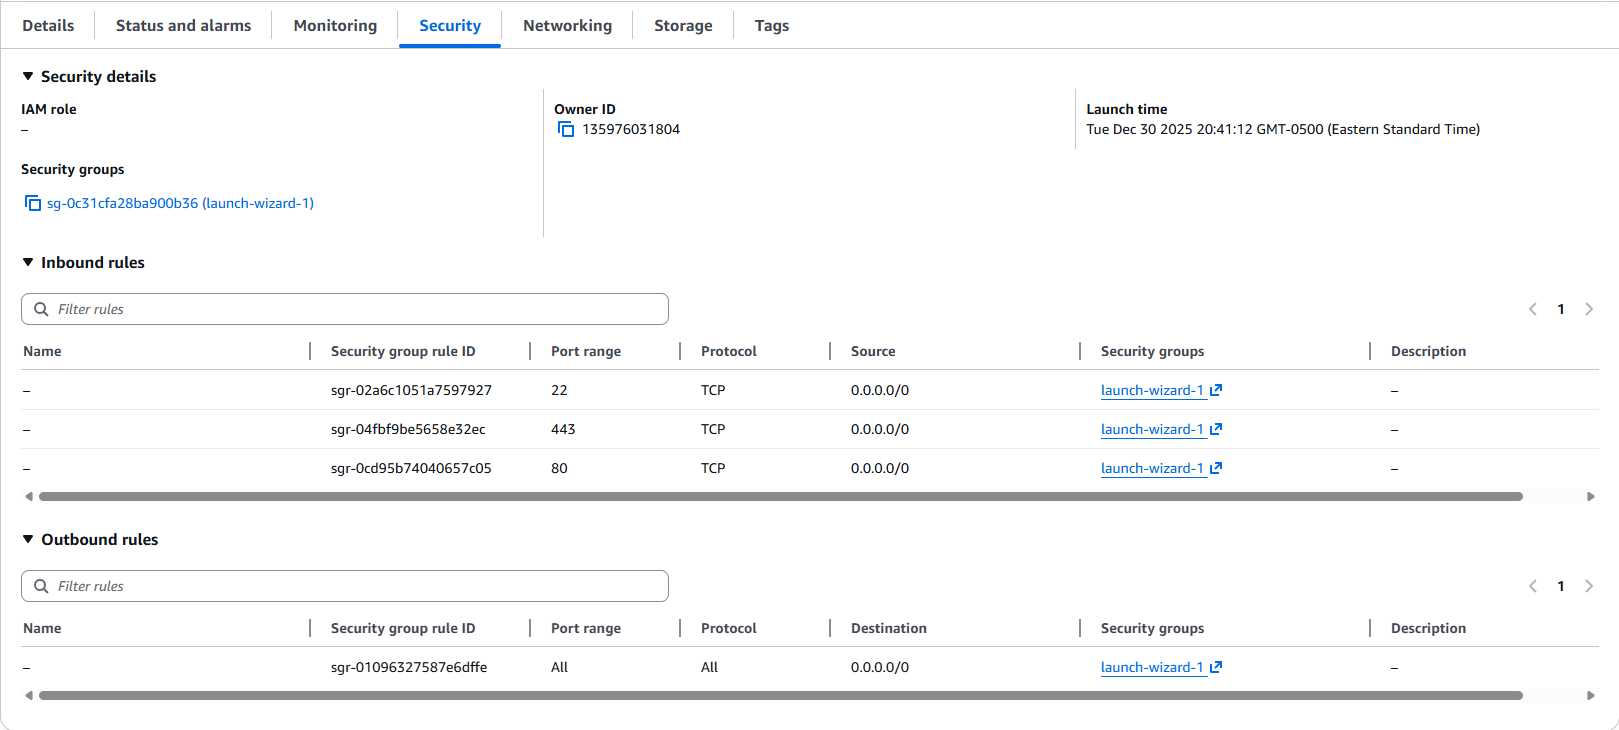
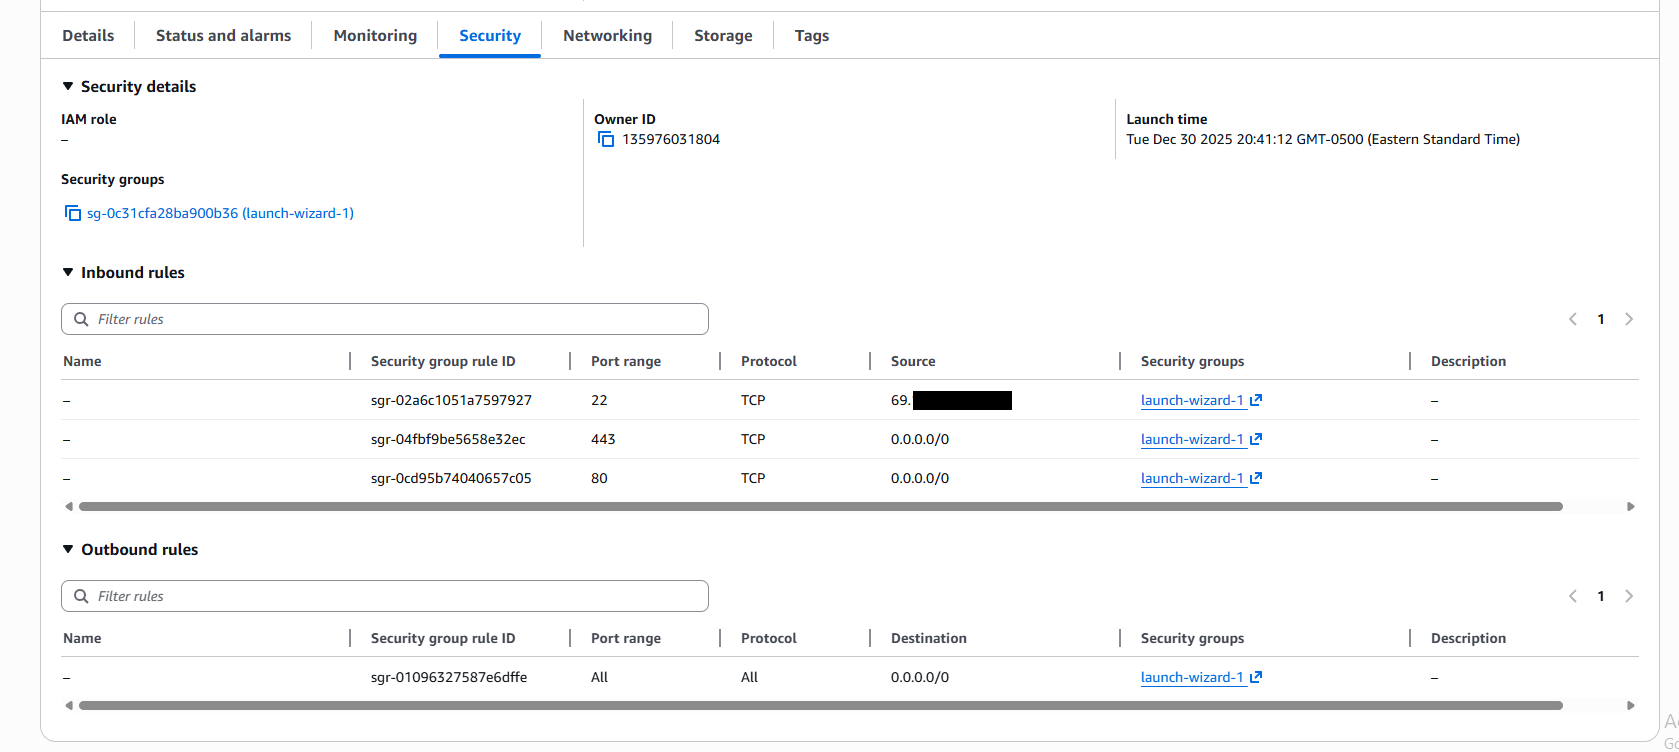
almost finshed 1st project uploading to aws now for hosting

diff --git a/project-serverless-aws.html b/project-serverless-aws.html
@@ -72,10 +72,10 @@
             <li>
               <strong>Account &amp; IAM</strong>
               <p>
-                I avoided day-to-day work on the AWS root user and instead relied on IAM users scoped for everyday administration versus automation/project-focused CLI credentials. Credentials stayed manageable while IAM handled authorization boundaries instead of scattering inline secrets everywhere.
+                I avoided day to day work on the AWS root user and instead relied on IAM users scoped for everyday administration tasks, this allowed me to have the good IAM security practices in place and not have to worry about the root user.
               </p>
               <p>
-                Both identities live inside an IAM user group with administrator-aligned policies attached at group scope, instead of duplicating policies on each user. Below are snapshots from the IAM Users console and the shared admin group.
+                Both identities live inside an IAM user group with administrator aligned policies attached at the base level. Below are snapshots from the IAM Users console and the shared admin group.
               </p>
               <div class="project-detail-step-media">
                 <figure class="project-detail-figure project-detail-figure--step">
@@ -105,7 +105,7 @@
             <li>
               <strong>VPC &amp; Internet Gateway</strong>
               <p>
-                I created a VPC for the environment and attached an Internet Gateway to it so the VPC could exchange traffic with the internet, which is the prerequisite for a public-facing subnet and inbound HTTPS/HTTP.
+                I created a VPC for the environment and attached an Internet Gateway to it so the VPC could exchange traffic with the internet, which is the prerequisite for a public facing subnet and inbound HTTPS/HTTP.
               </p>
               <div class="project-detail-step-media">
                 <figure class="project-detail-figure project-detail-figure--step">
@@ -146,16 +146,16 @@
             <li>
               <strong>Security groups</strong>
               <p>
-                From the EC2 console I opened my instance and used the <strong>Security</strong> tab to review the attached security group and rules in context (inbound TCP for SSH&nbsp;(22), HTTP&nbsp;(80), and HTTPS&nbsp;(443), plus the default outbound rule allowing responses and package installs during setup).
+                From the EC2 console I opened my instance and used the <strong>Security</strong> tab to review the attached security group and rules I set up previously (inbound TCP for SSH&nbsp;(22), HTTP&nbsp;(80), and HTTPS&nbsp;(443), plus the default outbound rule allowing responses and package installs during setup).
               </p>
               <p>
-                This reflects a straightforward lab-style perimeter; in production I’d tighten SSH (avoid <code class="project-detail-code">0.0.0.0/0</code> on port&nbsp;22; prefer my IP or AWS Systems Manager Session Manager) while keeping web ports scoped to what the app actually needs.
+                SSH is limited to a single source IP which is my public IP (<code class="project-detail-code">/32</code>); HTTP and HTTPS stay open to <code class="project-detail-code">0.0.0.0/0</code> for the web app. Other secure ways of accessing the instance are through AWS Systems Manager Session Manager or EC2 Instance Connect.
               </p>
               <div class="project-detail-step-media">
                 <figure class="project-detail-figure project-detail-figure--step">
                   <img
                     src="assets/ec2-security-groups.png"
-                    alt="EC2 instance Security tab showing attached security group with inbound rules for SSH, HTTPS, and HTTP and outbound allow-all rule."
+                    alt="EC2 instance Security tab with inbound rules: SSH port 22 from a single public IP, HTTPS 443 and HTTP 80 from 0.0.0.0/0, plus outbound allow-all."
                     loading="lazy"
                   >
                   <figcaption>EC2 → Security: inbound/outbound rules for the instance’s security group.</figcaption>
@@ -171,7 +171,7 @@
             <li>
               <strong>EBS storage</strong>
               <p>
-                The instance ran with EBS-backed storage. AWS provisioning attaches a root volume by default; the diagram treats persistent disk explicitly because OS, application, and database files all need durable block storage even when traffic spikes aren’t huge yet.
+                The instance ran with EBS backed storage. AWS provisioning attaches a root volume by default; the diagram treats persistent disk explicitly because OS, application, and database files all need durable block storage even when traffic spikes aren’t huge yet. For a larger application I would use a RDS instance for the database and a larger instance type for the web server.
               </p>
               <div class="project-detail-step-media project-detail-step-media--wide">
                 <figure class="project-detail-figure project-detail-figure--step">
@@ -192,15 +192,12 @@
             <li>
               <strong>Stack install &amp; deploy</strong>
               <p>
-                Over SSH I installed and configured Apache and PHP, deployed the application files to the server, and set up MySQL with the schema and data needed for equipment reservations, bringing the hosted stack in line with the architecture diagram’s EC2 → web + database slice.
+                Over SSH I installed and configured Apache and PHP, deployed the application files to the server, and set up MySQL with the schema and data needed for equipment reservations, bringing the hosted stack in line with the above architecture diagram.
               </p>
             </li>
           </ol>
         </section>
 
-        <p class="project-detail-links">
-          <a href="#" rel="noopener noreferrer">GitHub repository</a>
-        </p>
       </div>
     </article>
   </main>

diff --git a/index.html b/index.html
@@ -98,7 +98,6 @@
           <article class="project-card featured">
             <div class="project-tags">
               <span class="tag">AWS</span>
-              <span class="tag">Docker</span>
               <span class="tag">SQL</span>
               <span class="tag">Linux</span>
               <span class="tag">PHP</span>
@@ -106,7 +105,7 @@
             </div>
             <h3 id="project-card-aws-title">AWS Cloud Hosted Database Management System</h3>
             <p>
-              A LAMP Application hosted on AWS using Ec2, and containerized with Docker. Using MySQL as the database.
+              A LAMP Application hosted on AWS using EC2, and Using MySQL as the database.
             </p>
             <p class="project-card-cta"><span class="project-card-cta-text">Project write-up</span></p>
           </article>
